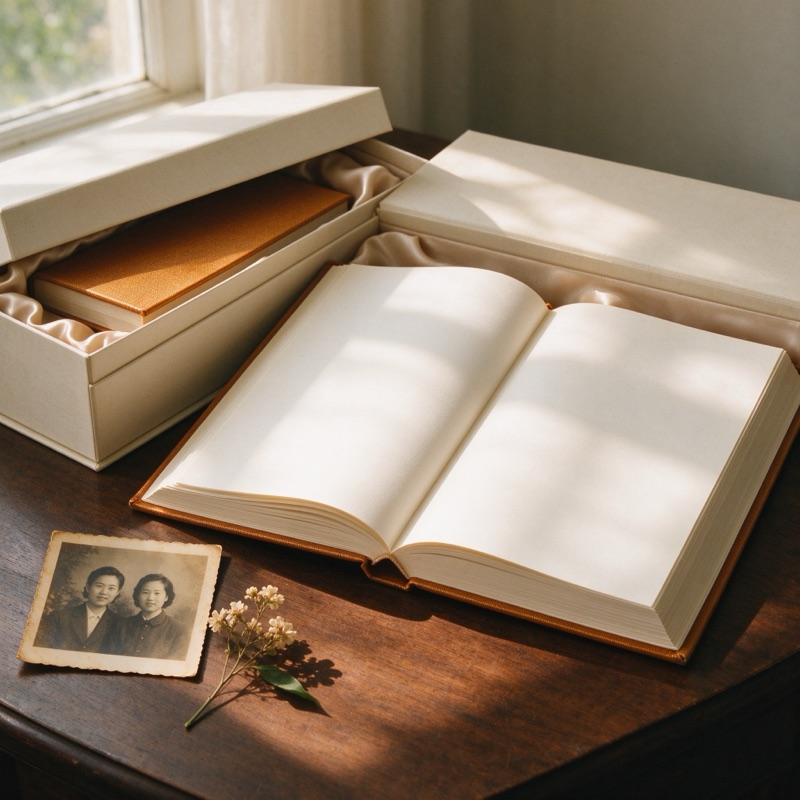
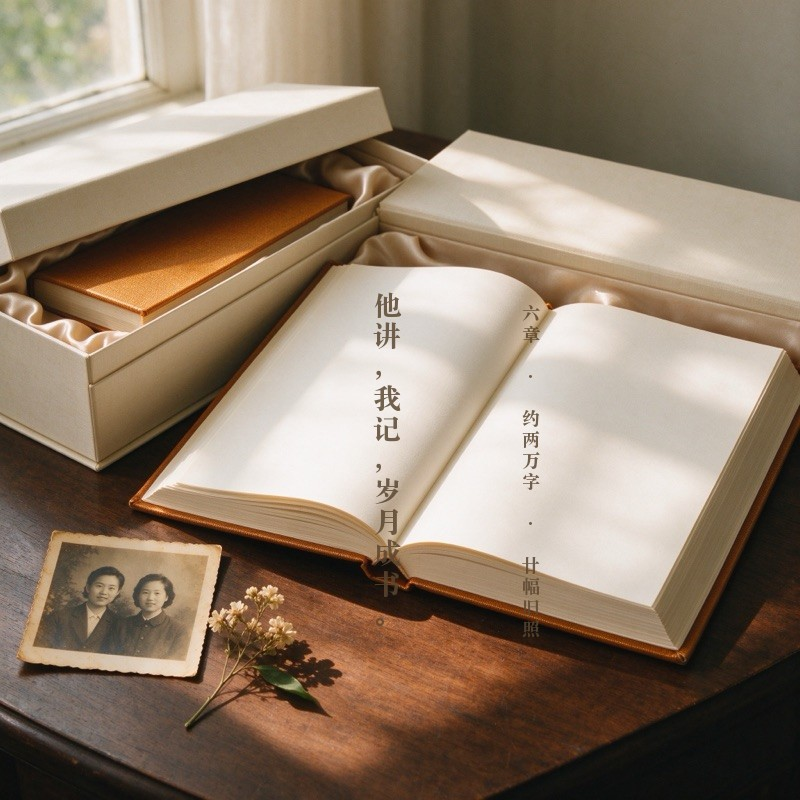
精装成书交付卡书页烧入竖排文字（确定性渲染）
- 用户反馈'精装交付这张图片没有内容'：画布原图书页素白无字
- AI直出中文必乱码（已多次验证死路），改用系统宋体在书页上确定性
  绘制竖排文字并烧入 deliver-book.jpg（800×800）：
  左页'他讲，我记，岁月成书。'（品牌语，28px），右页
  '六章 · 约两万字 · 廿幅旧照'（交付信息，与卡文案6章/2万字/20张照片呼应，18px）
- 移除 HTML card-book-text 覆字层，避免与图内文字叠加
- OCR 核验两列文字完全可读；shot.py 自检 0 error

diff --git a/index.html b/index.html
@@ -68,10 +68,7 @@
           <p>录音整理成文字，编辑逐句核对、保留长辈的语气。每一处事实都记入「事实账本」经家人确认。宁可少写，绝不写错。</p>
         </div>
         <div class="card card-book">
-          <div class="card-img-wrap">
-            <img class="card-img" src="images/deliver-book.jpg" alt="精装书成品与礼盒，郑重交付" loading="lazy">
-            <p class="card-book-text">他讲，我记，岁月成书。</p>
-          </div>
+          <img class="card-img" src="images/deliver-book.jpg" alt="精装书成品与礼盒，郑重交付" loading="lazy">
           <div class="card-icon">
             <svg viewBox="0 0 24 24" fill="none" stroke="currentColor" stroke-width="1.6" stroke-linecap="round" stroke-linejoin="round" aria-hidden="true"><path d="M12 6.5C10.6 5.2 8.2 5 5.5 5.6v12.4c2.7-.6 5.1-.4 6.5.9 1.4-1.3 3.8-1.5 6.5-.9V5.6C15.8 5 13.4 5.2 12 6.5Z"/><path d="M12 6.5v12.4"/></svg>
           </div>
